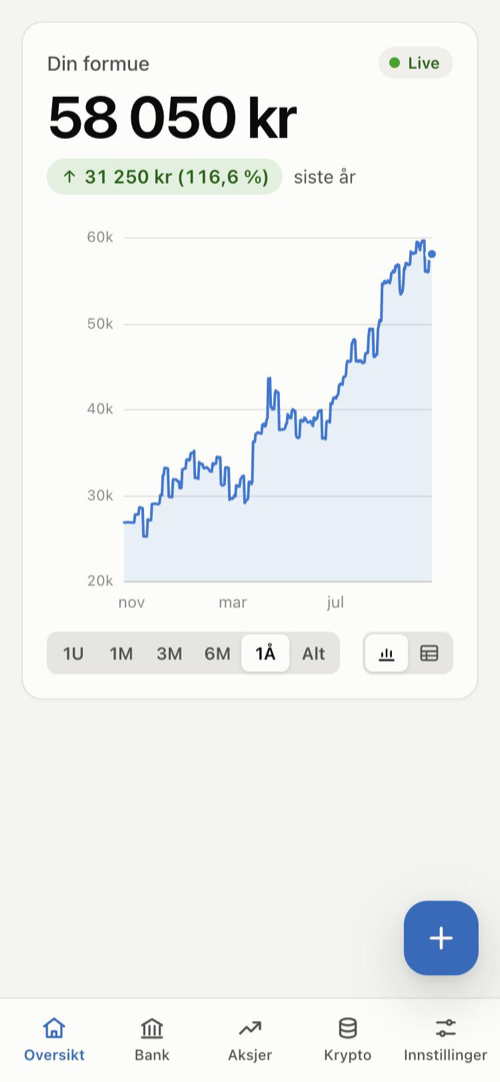
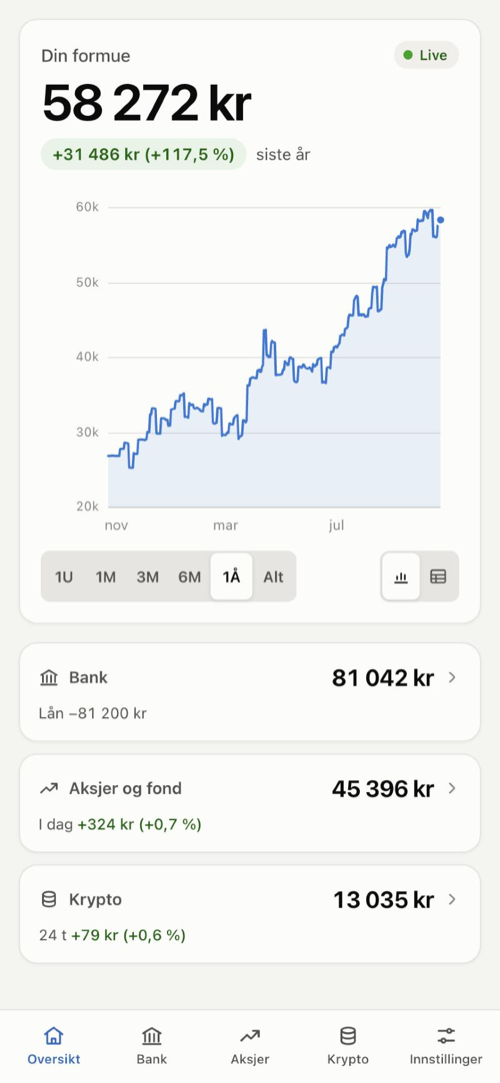
Vis summen for Bank, Aksjer og fond og Krypto på forsiden
- Tre fliser under grafen med summen for hver side, lånene under Bank
  (så flisene går opp i formuen) og endringen i dag for aksjer og krypto,
  som følger kursene; hver flis lenker til siden
- På mobil vises flisene som rader, og «+»-knappen er tatt bort fra
  forsiden (den dekket flisene)
- «I dag» viser «–» mens kursene lastes, ikke 0 kr
- Nye skjermbilder av forsiden i README
- 118 enhetstester

diff --git a/src/views/overview.js b/src/views/overview.js
@@ -1,8 +1,10 @@
-// Oversikt (forsiden): bare formuen din og en graf over hvordan den beveger seg.
+// Oversikt (forsiden): formuen din, en graf over hvordan den beveger seg, og summen for hver side
+// (Bank, Aksjer og fond, Krypto) så du raskt ser hvor pengene ligger.
+import { SECTIONS, accountsIn } from '../accounts.js';
 import { html } from '../html.js';
 import { icon, logo } from '../icons.js';
 import { formatMoney } from '../money.js';
-import { heldAssets, seriesChange, summarizeNetWorth } from '../networth.js';
+import { dayChange, hasPrices, heldAssets, holdingsOverview, seriesChange, summarizeNetWorth } from '../networth.js';
 import { historyChart, historyFor, mountHistory, rangeText } from './history.js';
 import { updateLiveValues } from './live.js';
 import { gainText, liveChip, trendClass } from './shared.js';
@@ -29,7 +31,56 @@ export function renderOverview(ctx) {
         : html`<span class="muted">Bank, sparing, aksjer, fond og krypto – minus gjeld.</span>`}
     </p>
     ${historyChart(ctx, series, { label: 'Formue', chartId: 'overview' })}
+  </section>
+  ${sectionTiles(ctx)}`;
+}
+
+/**
+ * Én flis per side med de samme tallene som øverst på siden. Bank viser lånene under, så
+ * flisene går opp i formuen: Bank + Aksjer og fond + Krypto − lån.
+ */
+function sectionTiles({ state, feed }) {
+  const currency = state.settings.currency;
+  const prices = feed.prices();
+  const money = (minor) => formatMoney(minor, currency, { whole: true });
+  const summaryOf = (key) => summarizeNetWorth(accountsIn(key, state.accounts), state.movements, prices);
+
+  const bank = summaryOf('bank');
+  const count = bank.rows.filter((row) => row.kind !== 'debt').length;
+  let bankNote = count === 0 ? 'Ingen kontoer ennå' : `${count} ${count === 1 ? 'konto' : 'kontoer'}`;
+  if (bank.debts > 0) bankNote = `Lån ${money(-bank.debts)}`;
+
+  /** Aksjer og fond, og Krypto: verdien og endringen i dag, som følger kursene (views/live.js). */
+  const marketTile = (key, iconName, dayLabel) => {
+    const accounts = accountsIn(key, state.accounts);
+    const summary = summaryOf(key);
+    const holdings = holdingsOverview(accounts, state.movements, prices);
+    const day = dayChange(holdings, summary.total);
+    let note = '–';
+    if (accounts.length === 0) note = 'Ingen kontoer ennå';
+    else if (holdings.length > 0) {
+      note = html`${dayLabel} <span class="gain ${trendClass(day.amount)}" data-live-day="${key}">${hasPrices(holdings) ? gainText(day.amount, day.ratio, currency) : '–'}</span>`;
+    } else if (summary.gain) {
+      note = html`Avkastning <span class="gain ${trendClass(summary.gain.amount)}">${gainText(summary.gain.amount, summary.gain.ratio, currency)}</span>`;
+    }
+    return sectionTile(key, iconName, { value: money(summary.total), note, live: true });
+  };
+
+  return html`<section class="section-tiles" aria-labelledby="section-tiles-title">
+    <h2 class="visually-hidden" id="section-tiles-title">Formuen fordelt</h2>
+    ${sectionTile('bank', 'bank', { value: money(bank.assets), note: bankNote })}
+    ${marketTile('investments', 'trend', 'I dag')}
+    ${marketTile('crypto', 'coins', '24 t')}
   </section>`;
+}
+
+function sectionTile(key, iconName, { value, note, live = false }) {
+  return html`<a class="section-tile" href="#/${SECTIONS[key].path}">
+    <span class="section-tile-head">${icon(iconName, { size: 18 })}<span>${SECTIONS[key].title}</span></span>
+    <span class="section-tile-arrow" aria-hidden="true">${icon('chevron-right', { size: 16 })}</span>
+    <strong class="section-tile-value" ${live ? html`data-live-section="${key}"` : ''}>${value}</strong>
+    <span class="section-tile-note">${note}</span>
+  </a>`;
 }
 
 export function mountOverview(container, ctx) {

diff --git a/styles.css b/styles.css
@@ -1891,6 +1891,70 @@ fieldset {
   margin-top: 6px;
 }
 
+/* Forsiden: én flis per side (Bank, Aksjer og fond, Krypto) med summen */
+.section-tiles {
+  display: grid;
+  grid-template-columns: repeat(3, minmax(0, 1fr));
+  gap: 16px;
+}
+
+.section-tile {
+  display: grid;
+  grid-template-columns: minmax(0, 1fr) auto;
+  grid-template-areas:
+    "head arrow"
+    "value value"
+    "note note";
+  align-items: center;
+  gap: 6px 8px;
+  min-width: 0;
+  padding: 18px 20px;
+  border: 1px solid var(--border);
+  border-radius: var(--radius);
+  background: var(--surface);
+  box-shadow: var(--shadow-sm);
+  color: inherit;
+  text-decoration: none;
+  transition: border-color 0.15s;
+}
+
+.section-tile:hover {
+  border-color: var(--border-strong);
+}
+
+.section-tile-head {
+  display: flex;
+  grid-area: head;
+  align-items: center;
+  gap: 8px;
+  color: var(--text-2);
+  font-size: 14px;
+  font-weight: 600;
+}
+
+.section-tile-arrow {
+  display: flex;
+  grid-area: arrow;
+  color: var(--text-3);
+}
+
+.section-tile-value {
+  grid-area: value;
+  margin-top: 4px;
+  font-size: 26px;
+  font-weight: 650;
+  font-variant-numeric: tabular-nums;
+  letter-spacing: -0.02em;
+  white-space: nowrap;
+}
+
+.section-tile-note {
+  grid-area: note;
+  color: var(--text-2);
+  font-size: 13px;
+  font-variant-numeric: tabular-nums;
+}
+
 .delta-pill {
   display: inline-flex;
   align-items: center;
@@ -2525,6 +2589,25 @@ a.tx-row {
 
   .overview {
     padding: 18px;
+  }
+
+  /* Flisene under hverandre, som rader: navn og sum på én linje, lån/endring under */
+  .section-tiles {
+    grid-template-columns: minmax(0, 1fr);
+    gap: 10px;
+  }
+
+  .section-tile {
+    grid-template-columns: minmax(0, 1fr) auto auto;
+    grid-template-areas:
+      "head value arrow"
+      "note note note";
+    padding: 14px 16px;
+  }
+
+  .section-tile-value {
+    margin-top: 0;
+    font-size: 20px;
   }
 
   /* Fanene deler bredden, så alle fire får plass på en smal telefon */

diff --git a/src/app.js b/src/app.js
@@ -40,8 +40,9 @@ const ROUTES = new Map([...Object.entries(VIEWS).map(([key, view]) => [view.path
 const LIVE_ROUTES = new Set(['overview', 'investments', 'crypto', 'account']);
 // Sider der "Registrer"-knappen registrerer forbruk (resten registrerer bevegelser på kontoer).
 const SPENDING_ROUTES = new Set(['spending', 'transactions', 'budgets']);
-// Sider med egne knapper (Overfør, Kjøp, Selg …): her ville den flytende +-knappen bare dekket innholdet.
-const OWN_ACTION_ROUTES = new Set(['bank', 'investments', 'crypto', 'account']);
+// Her ville den flytende +-knappen bare dekket innholdet: sidene har egne knapper (Overfør, Kjøp, Selg …),
+// og forsiden lenker videre til dem med flisene for Bank, Aksjer og fond og Krypto.
+const HIDE_FAB_ROUTES = new Set(['overview', 'bank', 'investments', 'crypto', 'account']);
 
 const defaultFilters = (month) => ({ month, type: 'all', category: 'all', query: '' });
 const categoryName = (id) => getCategory(id).name;
@@ -106,7 +107,7 @@ function render({ focusMain = false } = {}) {
   document.querySelector('[data-slot="quick-add-label"]').textContent = label;
   const fab = document.querySelector('.fab');
   fab.setAttribute('aria-label', label);
-  fab.hidden = OWN_ACTION_ROUTES.has(ui.route);
+  fab.hidden = HIDE_FAB_ROUTES.has(ui.route);
 }
 
 // Siden tegnes på nytt etter hver endring, så behold markøren der den var (f.eks. i søkefeltet).

diff --git a/src/views/crypto.js b/src/views/crypto.js
@@ -4,7 +4,7 @@ import { COINS, accountsIn, findCoin } from '../accounts.js';
 import { html } from '../html.js';
 import { icon } from '../icons.js';
 import { formatMoney, formatPrice, formatQuantity } from '../money.js';
-import { dayChange, heldAssets, holdingsOverview, summarizeNetWorth } from '../networth.js';
+import { dayChange, hasPrices, heldAssets, holdingsOverview, summarizeNetWorth } from '../networth.js';
 import { historyChart, historyFor, mountHistory } from './history.js';
 import { updateLiveValues } from './live.js';
 import { accountRows, changeText, coinIcon, emptyState, gainText, liveChip, newAccountButton, pageHeader, quickAction, trendClass } from './shared.js';
@@ -39,7 +39,7 @@ export function renderCrypto(ctx) {
       <p class="hero-label">Total verdi</p>
       <p class="hero-value" data-live-section="crypto">${formatMoney(summary.total, currency, { whole: true })}</p>
       <p class="wallet-change">
-        <span class="delta-pill ${trendClass(day.amount)}" data-live-day="crypto">${gainText(day.amount, day.ratio, currency)}</span>
+        <span class="delta-pill ${trendClass(day.amount)}" data-live-day="crypto">${hasPrices(holdings) ? gainText(day.amount, day.ratio, currency) : '–'}</span>
         <span class="muted">siste 24 timer</span>
       </p>
       <div class="quick-actions">

diff --git a/src/views/live.js b/src/views/live.js
@@ -3,7 +3,7 @@
 // Elementer merkes med data-live-* i markupen; endrede tall blinker kort grønt eller rødt.
 import { accountsIn, isMarketKind, priceKey } from '../accounts.js';
 import { formatMoney, formatPrice } from '../money.js';
-import { dayChange, holdingsOverview, summarizeNetWorth } from '../networth.js';
+import { dayChange, hasPrices, holdingsOverview, summarizeNetWorth } from '../networth.js';
 import { changeText, gainText, liveStatus, trendClass } from './shared.js';
 
 function setLive(element, text, value = null) {
@@ -48,8 +48,8 @@ export function updateLiveValues(container, state, feed) {
     const holdings = holdingsOverview(accounts, state.movements, prices);
     const day = dayChange(holdings, summary.total);
     setLive(find(`[data-live-section="${section}"]`), money(summary.total), summary.total);
-    // Uten aksjer eller mynter (bare fond) står "I dag" som "–", som når siden tegnes.
-    if (holdings.length > 0) {
+    // Uten aksjer eller mynter med kurs (bare fond, eller kursene lastes) står "I dag" som "–", som når siden tegnes.
+    if (hasPrices(holdings)) {
       const dayElement = find(`[data-live-day="${section}"]`);
       setLive(dayElement, gainText(day.amount, day.ratio, currency));
       setTrend(dayElement, day.amount);

diff --git a/src/views/investments.js b/src/views/investments.js
@@ -4,7 +4,7 @@ import { accountsIn, assetName } from '../accounts.js';
 import { html } from '../html.js';
 import { icon } from '../icons.js';
 import { formatMoney, formatPrice, formatQuantity } from '../money.js';
-import { dayChange, heldAssets, holdingsOverview, summarizeNetWorth } from '../networth.js';
+import { dayChange, hasPrices, heldAssets, holdingsOverview, summarizeNetWorth } from '../networth.js';
 import { historyChart, historyFor, mountHistory } from './history.js';
 import { updateLiveValues } from './live.js';
 import { accountRows, changeText, emptyState, gainText, liveChip, newAccountButton, pageHeader, stockIcon, trendClass } from './shared.js';
@@ -52,7 +52,7 @@ export function renderInvestments(ctx) {
       <dl class="portfolio-stats">
         <div>
           <dt>I dag</dt>
-          <dd class="delta-value ${trendClass(day.amount)}" data-live-day="investments">${holdings.length > 0 ? gainText(day.amount, day.ratio, currency) : '–'}</dd>
+          <dd class="delta-value ${trendClass(day.amount)}" data-live-day="investments">${hasPrices(holdings) ? gainText(day.amount, day.ratio, currency) : '–'}</dd>
         </div>
         <div>
           <dt>Avkastning</dt>

diff --git a/tests/networth.test.js b/tests/networth.test.js
@@ -1,6 +1,7 @@
 import { test, assert, assertDeepEqual, assertEqual } from './harness.js';
 import {
   dayChange,
+  hasPrices,
   heldAssets,
   holdingsCost,
   holdingsOverview,
@@ -210,4 +211,10 @@ test('dayChange works out the change since yesterday from the price changes', ()
   const withFund = dayChange([{ value: kr(10_200), change24h: 2 }], kr(30_100));
   assertEqual(withFund.amount, kr(200));
   assertEqual(Math.round(withFund.ratio * 10_000) / 10_000, 0.0067);
+});
+
+test('hasPrices tells whether the change today is known yet', () => {
+  assertEqual(hasPrices([]), false, 'nothing held');
+  assertEqual(hasPrices([{ value: null, change24h: null }]), false, 'prices still loading');
+  assertEqual(hasPrices([{ value: null }, { value: kr(5_000), change24h: 1 }]), true);
 });

diff --git a/src/networth.js b/src/networth.js
@@ -211,6 +211,9 @@ export function holdingsOverview(accounts, movements, prices = {}) {
     .sort((a, b) => (b.value ?? 0) - (a.value ?? 0) || a.key.localeCompare(b.key));
 }
 
+/** Har minst én aksje eller mynt fått kurs? Før det er endringen i dag ukjent («–», ikke 0 kr). */
+export const hasPrices = (holdings) => holdings.some((holding) => holding.value !== null);
+
 /**
  * Hvor mye beholdningen har endret seg siste døgn (krypto) eller siden i går (aksjer), ut fra kursene.
  * Med `total` (hele porteføljen, også fond uten dagskurs) regnes prosenten av alt, ikke bare av det som har kurs.
